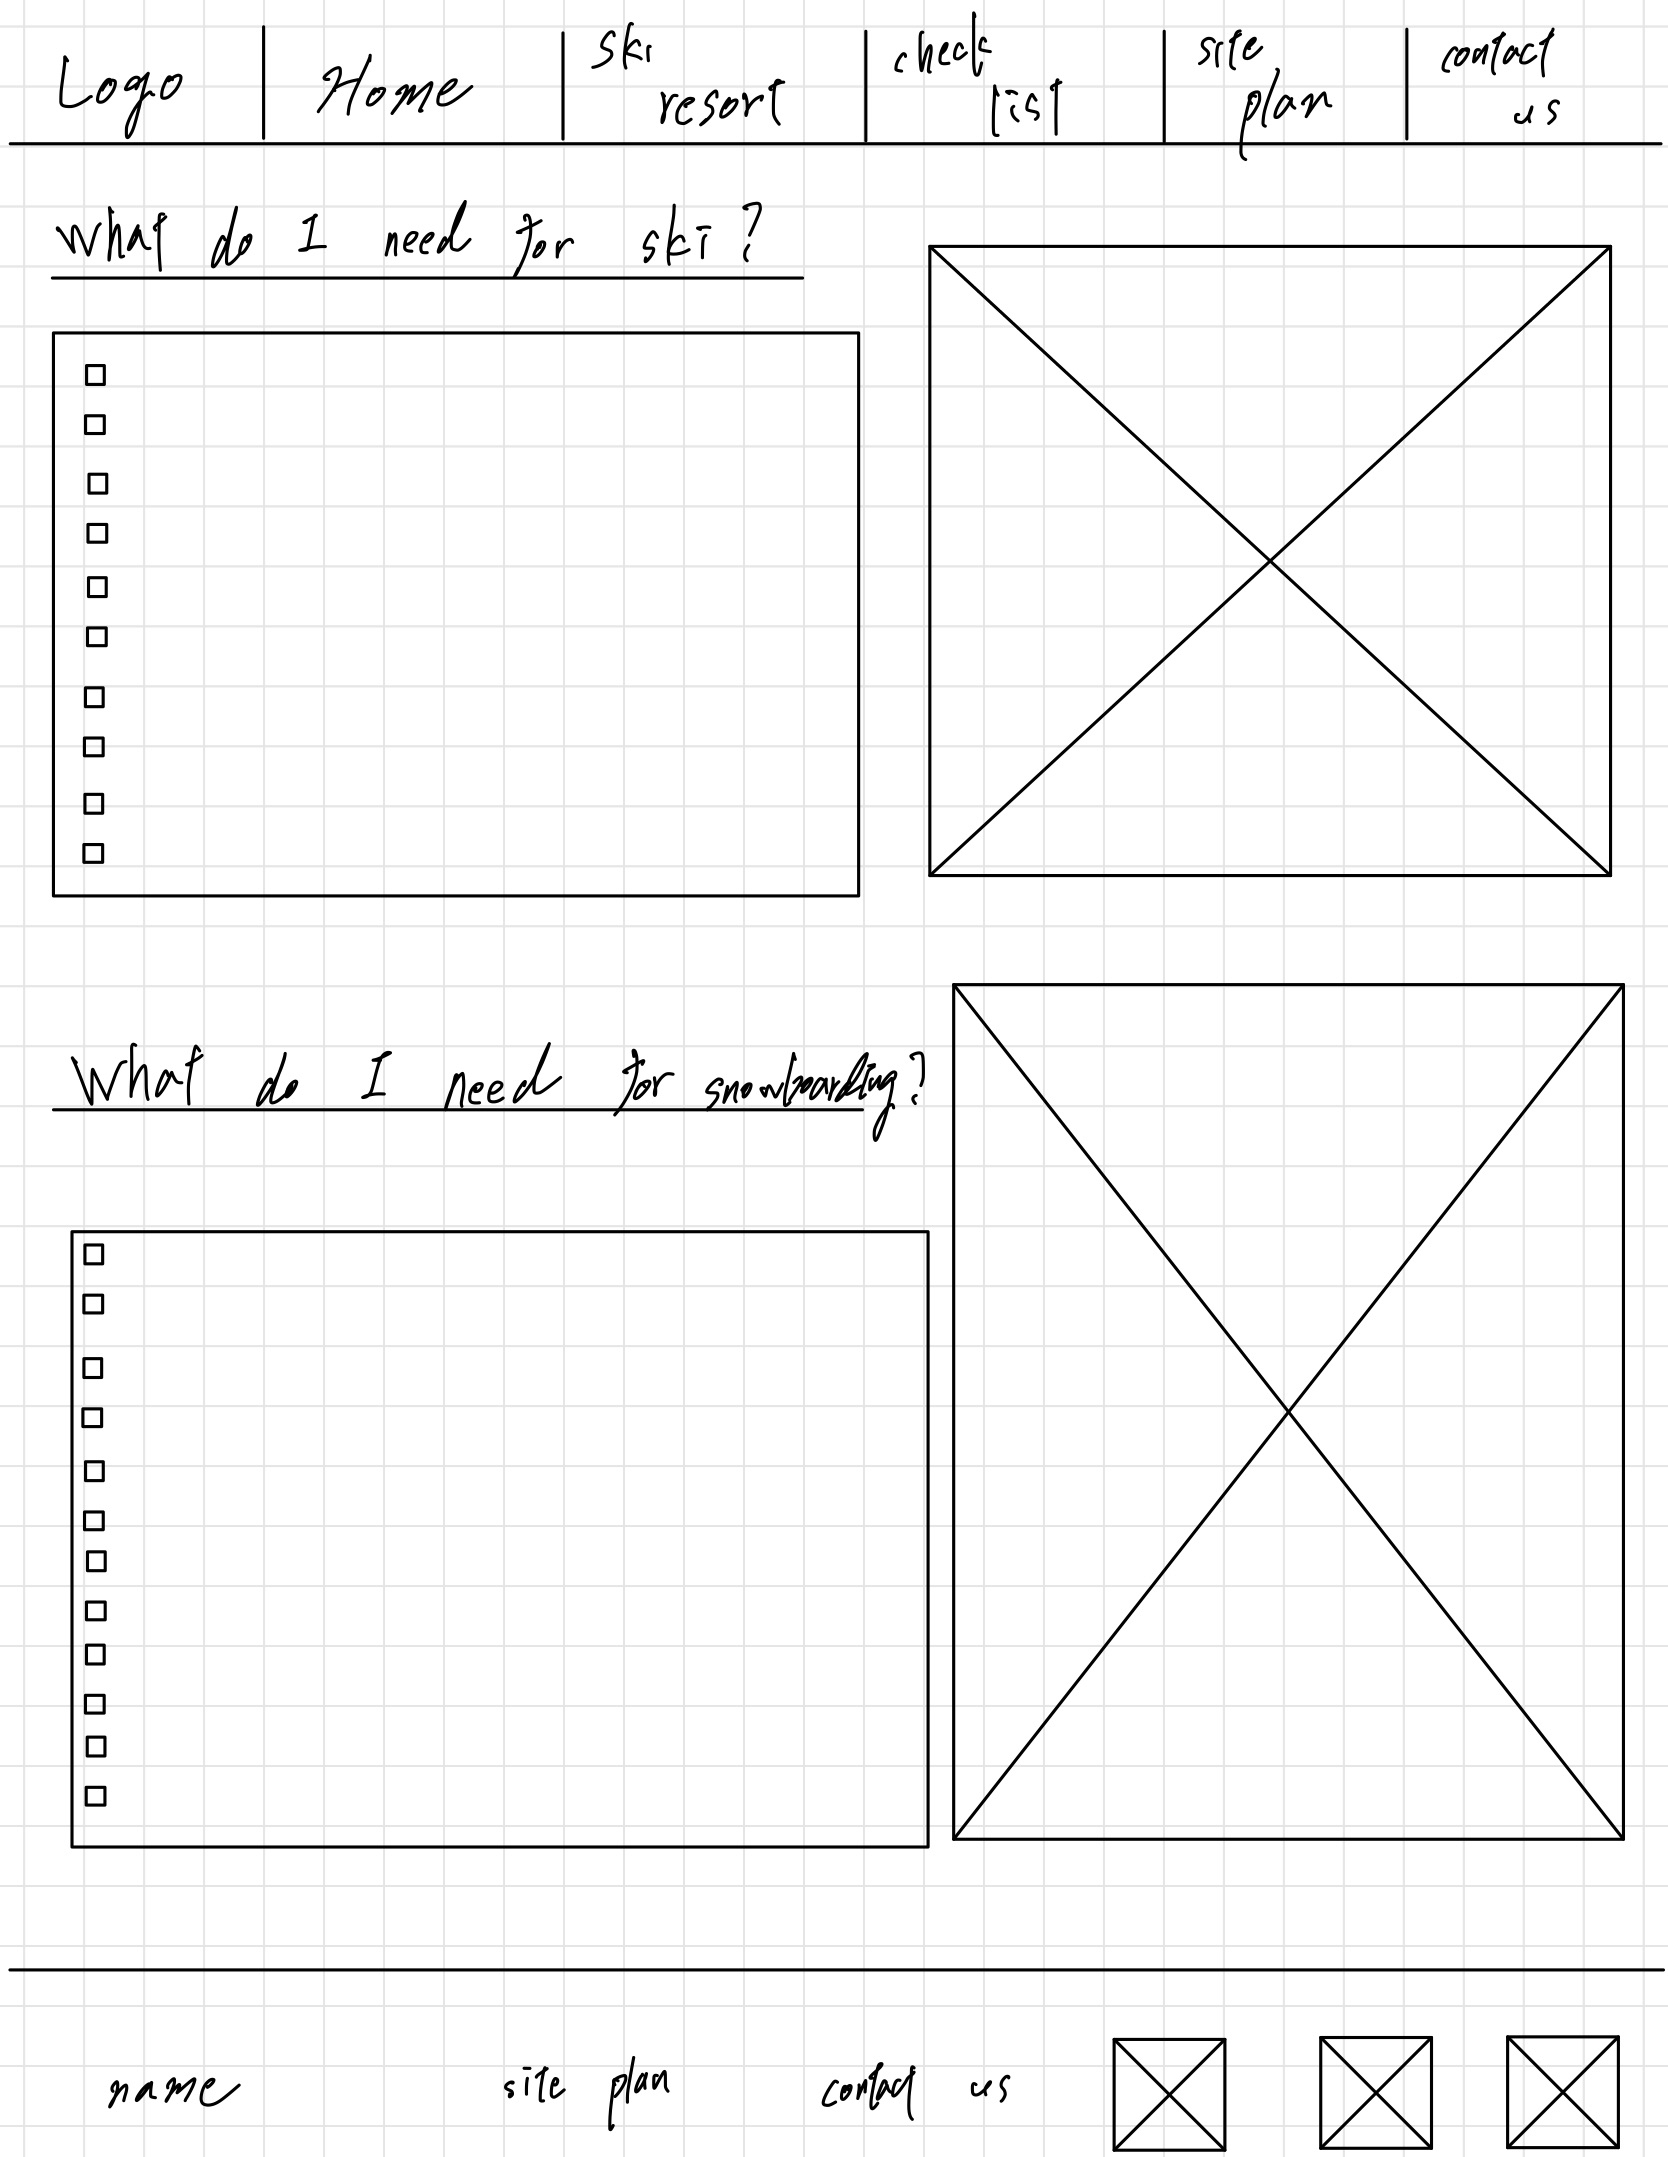
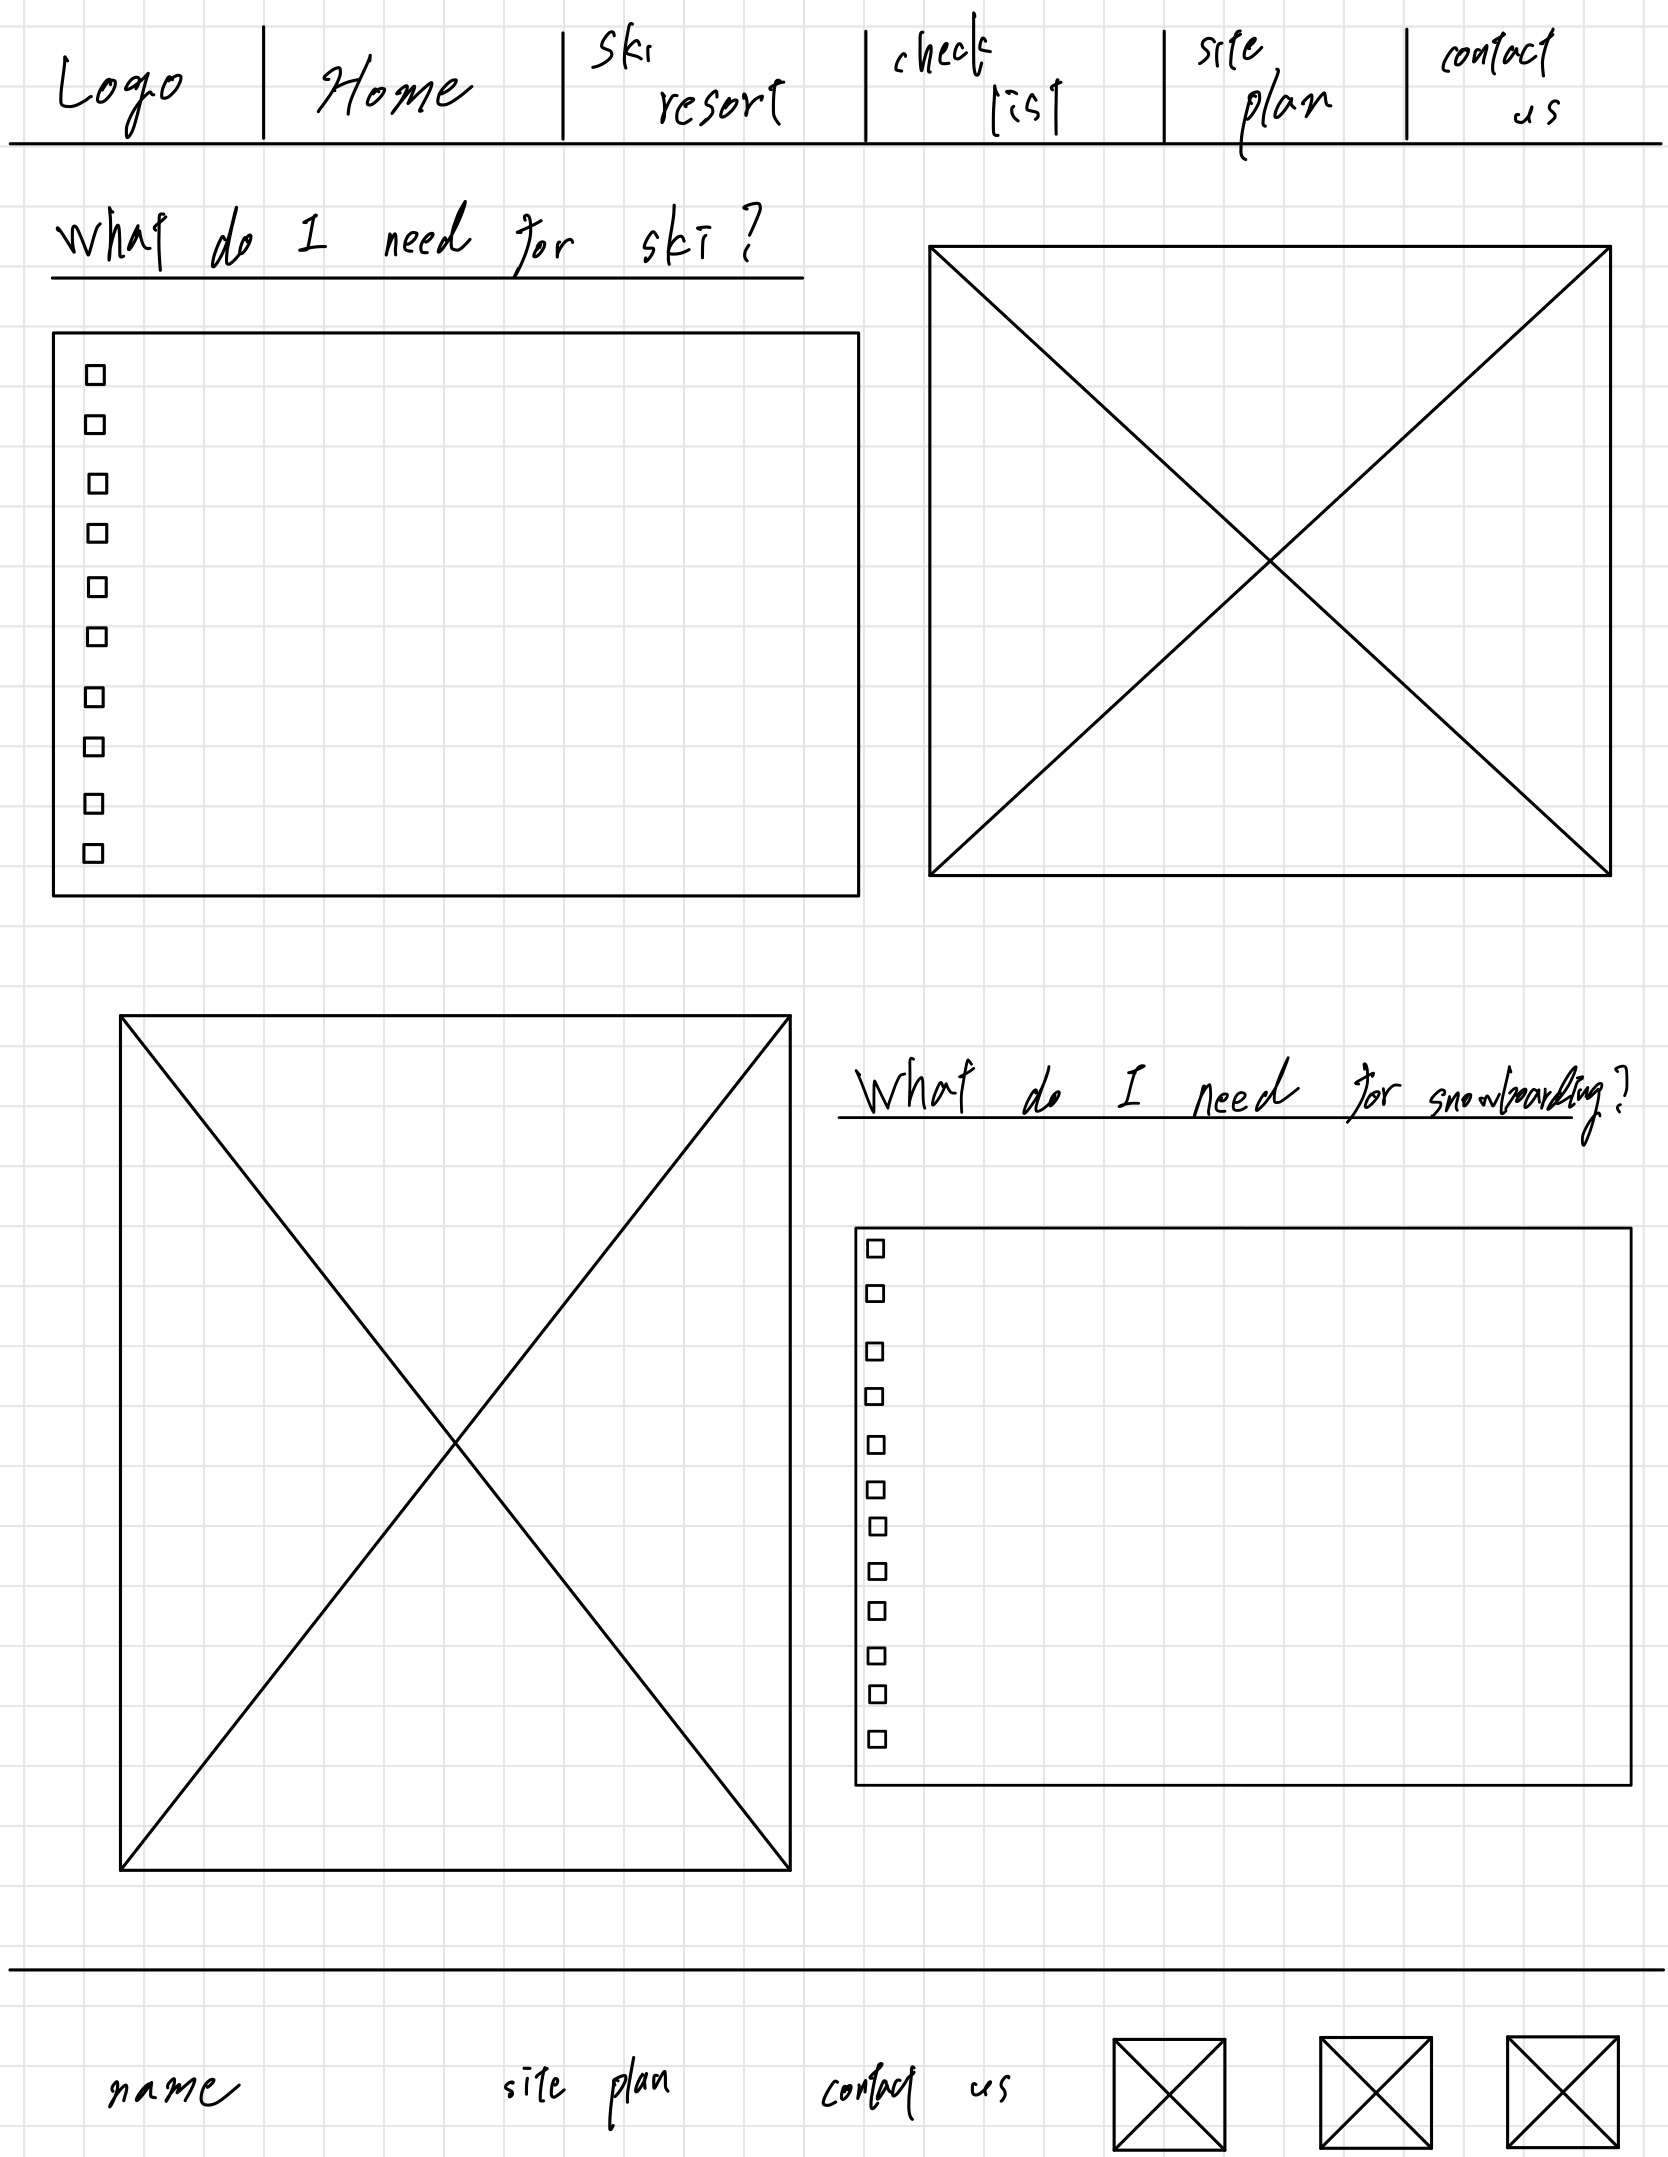
change

diff --git a/my site/site-plan.html b/my site/site-plan.html
@@ -251,7 +251,7 @@
       <p>         
         [Any additional details about page 2 that the wireframe does not make clear]
       </p>
-      <img src="Site Plan-4 2.jpg" alt="page 2 wireframe">
+      <img src="Site Plan-4 3.jpg" alt="page 2 wireframe">
 
       <h3>[Page 3]</h3>
       <p>         
